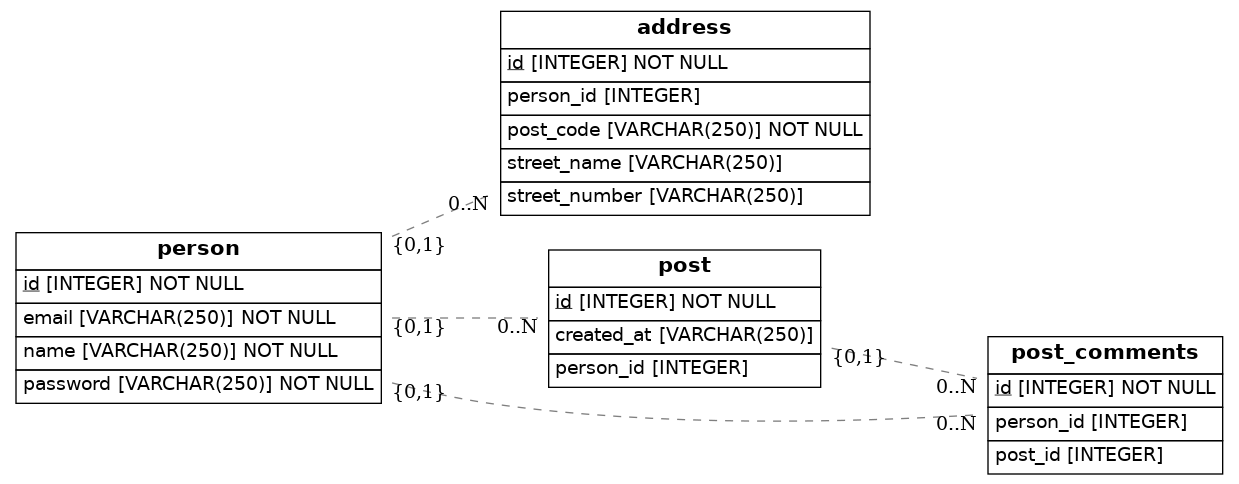
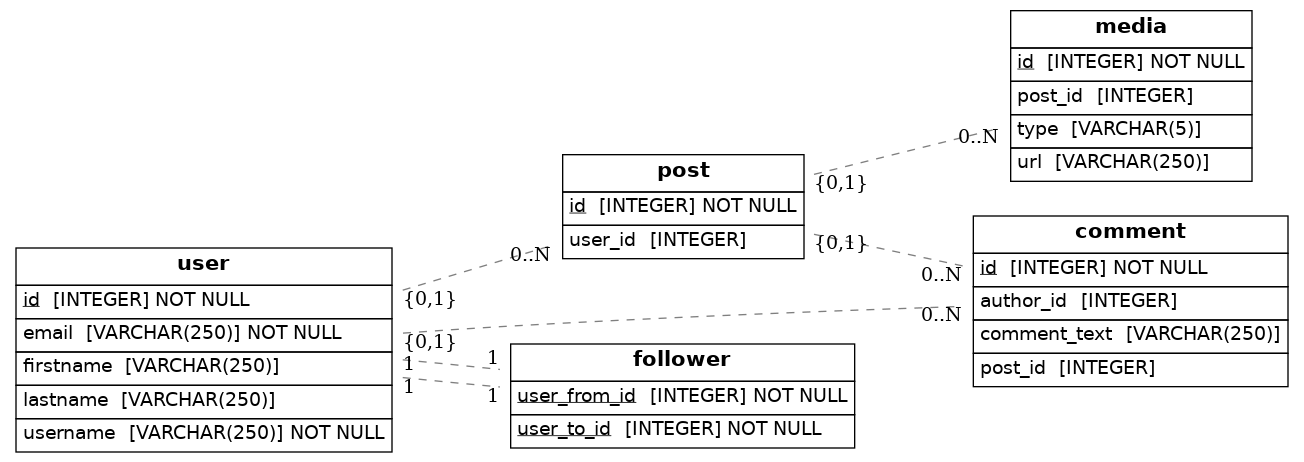
enlaces y tablas del diagrama, check

Changed region(s): [[0.0, 0.0, 1.0, 1.0], [0.7361, 0.0, 0.9814, 0.3939]]

diff --git a/src/models.py b/src/models.py
@@ -1,58 +1,60 @@
 import os
 import sys
-from sqlalchemy import Column, ForeignKey, Integer, String
+from sqlalchemy import Column, ForeignKey, Integer, String, Enum
 from sqlalchemy.orm import relationship, declarative_base
 from sqlalchemy import create_engine
 from eralchemy2 import render_er
 
 Base = declarative_base()
 
-class Person(Base):
-    __tablename__ = 'person'
-    # Here we define columns for the table person
-    # Notice that each column is also a normal Python instance attribute.
+class User(Base):
+    __tablename__ = 'user'
     id = Column(Integer, primary_key=True)
-    name = Column(String(250), nullable=False)
+    username = Column(String(250), nullable=False)
+    firstname = Column(String(250))
+    lastname = Column(String(250))
     email = Column(String(250), nullable=False)
-    password = Column(String(250), nullable=False)
-    address = relationship("Address" , back_populates="address")
-    post = relationship("Post" , back_populates="post")
-    post_comments = relationship("Post_Comments" , back_populates="post_comments")
+    posts = relationship("Post", back_populates="user")
+    comments = relationship("Comment", back_populates="author")
+    followers = relationship("Follower", foreign_keys='Follower.user_to_id', back_populates="user_to")
+    following = relationship("Follower", foreign_keys='Follower.user_from_id', back_populates="user_from")
 
-
-class Address(Base):
-    __tablename__ = 'address'
-    # Here we define columns for the table address.
-    # Notice that each column is also a normal Python instance attribute.
-    id = Column(Integer, primary_key=True)
-    street_name = Column(String(250))
-    street_number = Column(String(250))
-    post_code = Column(String(250), nullable=False)
-    person_id = Column(Integer, ForeignKey('person.id'))
-    
-    def to_dict(self):
-        return {}
-    
 class Post(Base):
     __tablename__ = "post"
     id = Column(Integer, primary_key=True)
-    person_id = Column(Integer, ForeignKey("person.id"))
-    created_at = Column(String(250))
-    post_comments = relationship("Post_Comments" , back_populates="post_comments")
+    user_id = Column(Integer, ForeignKey("user.id"))
+    user = relationship("User", back_populates="posts")
+    comments = relationship("Comment", back_populates="post")
+    media = relationship("Media", back_populates="post")
 
-
-class Post_Comments(Base):
-    __tablename__ = "post_comments"
+class Comment(Base):
+    __tablename__ = "comment"
     id = Column(Integer, primary_key=True)
+    comment_text = Column(String(250))
+    author_id = Column(Integer, ForeignKey("user.id"))
     post_id = Column(Integer, ForeignKey("post.id"))
-    person_id = Column(Integer, ForeignKey("person.id"))
+    author = relationship("User", back_populates="comments")
+    post = relationship("Post", back_populates="comments")
 
+class Follower(Base):
+    __tablename__ = "follower"
+    user_from_id = Column(Integer, ForeignKey('user.id'), primary_key=True)
+    user_to_id = Column(Integer, ForeignKey('user.id'), primary_key=True)
+    user_from = relationship("User", foreign_keys=[user_from_id], back_populates="following")
+    user_to = relationship("User", foreign_keys=[user_to_id], back_populates="followers")
 
+class Media(Base):
+    __tablename__ = "media"
+    id = Column(Integer, primary_key=True)
+    type = Column(Enum('image', 'video', name='media_types'))
+    url = Column(String(250))
+    post_id = Column(Integer, ForeignKey("post.id"))
+    post = relationship("Post", back_populates="media")
 
 ## Draw from SQLAlchemy base
 try:
     result = render_er(Base, 'diagram.png')
     print("Success! Check the diagram.png file")
 except Exception as e:
-    print("There was a problem genering the diagram")
+    print("There was a problem generating the diagram")
     raise e
